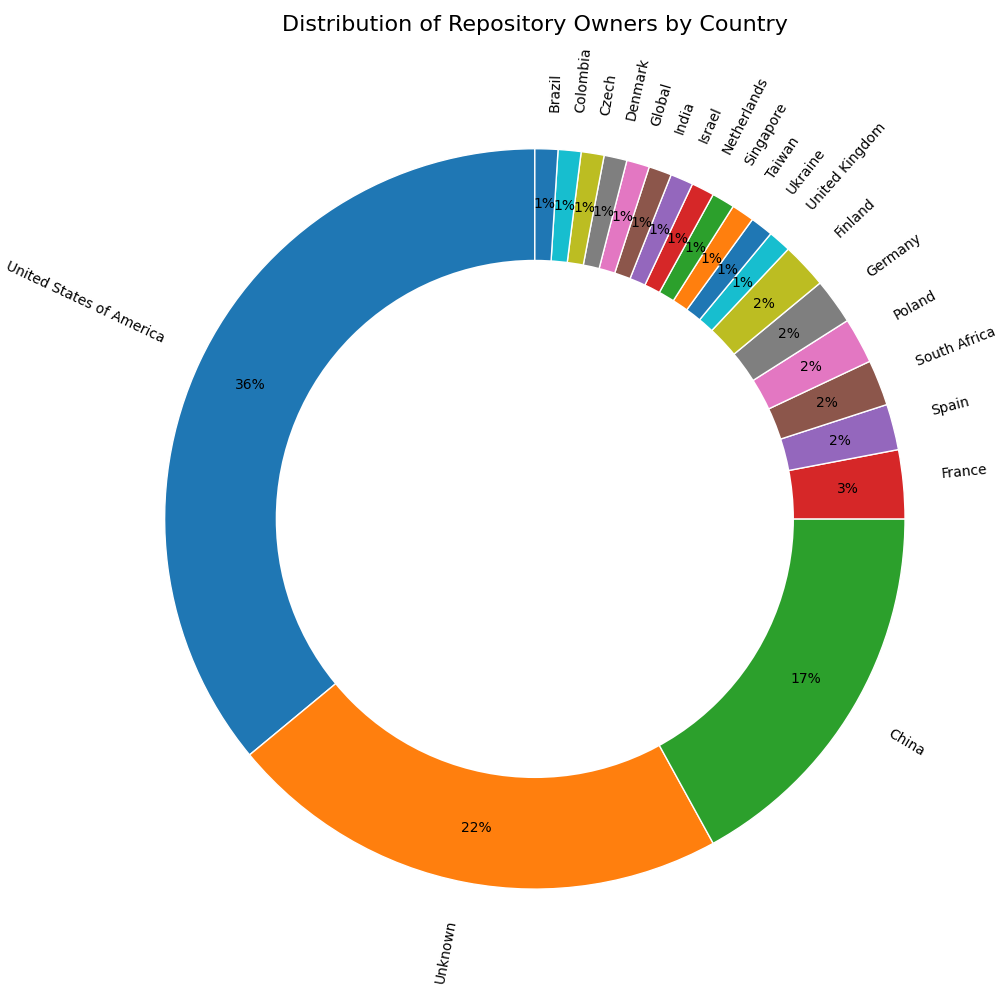
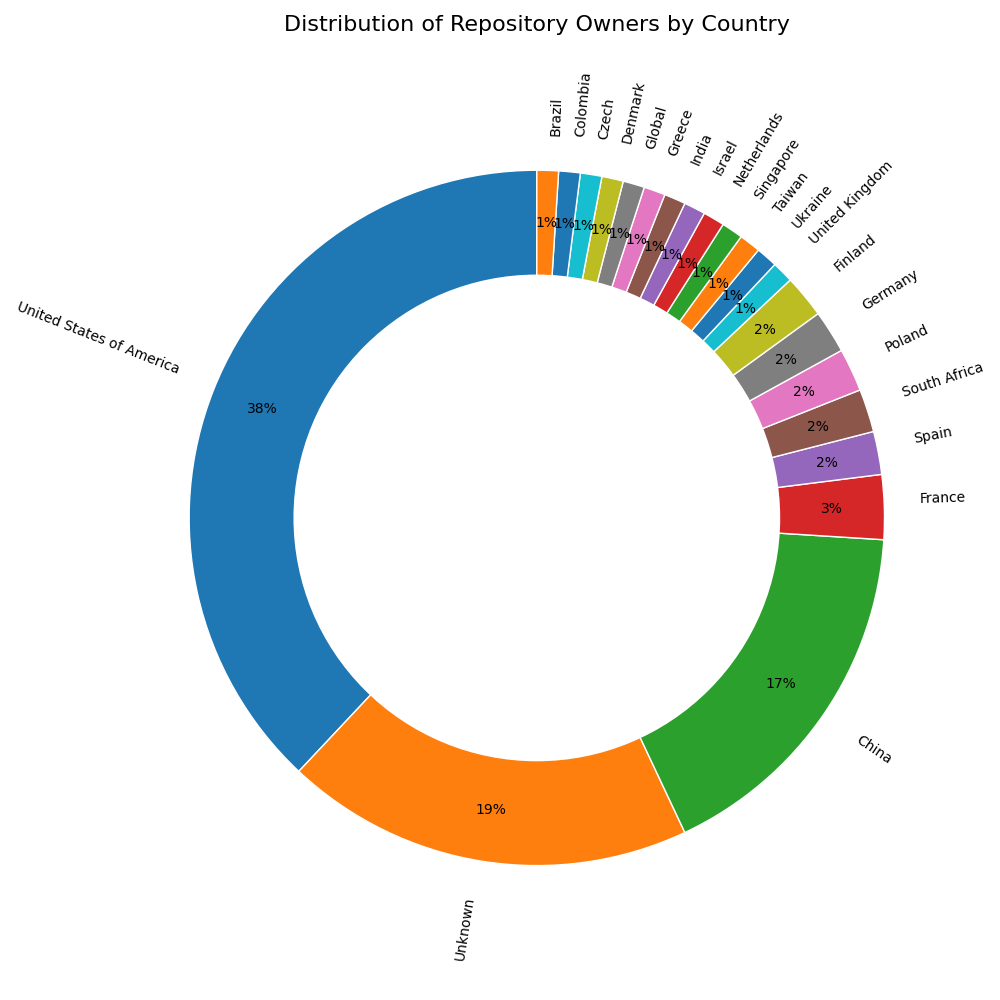
added_pie

diff --git a/README.md b/README.md
@@ -55,10 +55,10 @@
 | 48 | [fucking-algorithm](https://github.com/labuladong/fucking-algorithm) | 132067 | 23676 | Markdown | 1 | 刷算法全靠套路，认准 labuladong 就够了！English version supported! Crack LeetCode, not only how, but also why. | 2025-10-08T04:06:00Z | User | China |
 | 49 | [go](https://github.com/golang/go) | 131916 | 18724 | Go | 9336 | The Go programming language | 2026-01-12T22:47:46Z | Org | United States of America |
 | 50 | [PowerToys](https://github.com/microsoft/PowerToys) | 127875 | 7591 | C# | 7795 | Microsoft PowerToys is a collection of utilities that help you customize Windows and streamline everyday tasks | 2026-01-13T03:03:08Z | Org | United States of America |
-| 51 | [30-seconds-of-code](https://github.com/Chalarangelo/30-seconds-of-code) | 126299 | 12400 | JavaScript | 0 | Coding articles to level up your development skills | 2026-01-08T13:12:18Z | User | Unknown |
-| 52 | [dify](https://github.com/langgenius/dify) | 125703 | 19556 | Python | 419 | Production-ready platform for agentic workflow development. | 2026-01-13T03:51:15Z | Org | Unknown |
+| 51 | [30-seconds-of-code](https://github.com/Chalarangelo/30-seconds-of-code) | 126299 | 12400 | JavaScript | 0 | Coding articles to level up your development skills | 2026-01-08T13:12:18Z | User | Greece |
+| 52 | [dify](https://github.com/langgenius/dify) | 125703 | 19556 | Python | 419 | Production-ready platform for agentic workflow development. | 2026-01-13T03:51:15Z | Org | United States of America |
 | 53 | [react-native](https://github.com/facebook/react-native) | 125046 | 25047 | C++ | 720 | A framework for building native applications using React | 2026-01-13T03:17:55Z | Org | United States of America |
-| 54 | [langchain](https://github.com/langchain-ai/langchain) | 124057 | 20446 | Python | 203 | 🦜🔗 The platform for reliable agents. | 2026-01-13T01:26:59Z | Org | Unknown |
+| 54 | [langchain](https://github.com/langchain-ai/langchain) | 124057 | 20446 | Python | 203 | 🦜🔗 The platform for reliable agents. | 2026-01-13T01:26:59Z | Org | United States of America |
 | 55 | [hello-algo](https://github.com/krahets/hello-algo) | 121491 | 14777 | Java | 6 | 《Hello 算法》：动画图解、一键运行的数据结构与算法教程。支持简中、繁中、English、日本語，提供 Python, Java, C++, C, C#, JS, Go, Swift, Rust, Ruby, Kotlin, TS, Dart 等代码实现 | 2026-01-04T08:26:47Z | User | China |
 | 56 | [open-webui](https://github.com/open-webui/open-webui) | 120444 | 16967 | Python | 148 | User-friendly AI Interface (Supports Ollama, OpenAI API, ...) | 2026-01-12T17:56:03Z | Org | Unknown |
 | 57 | [kubernetes](https://github.com/kubernetes/kubernetes) | 119791 | 42188 | Go | 1816 | Production-Grade Container Scheduling and Management | 2026-01-13T03:03:36Z | Org | United States of America |
